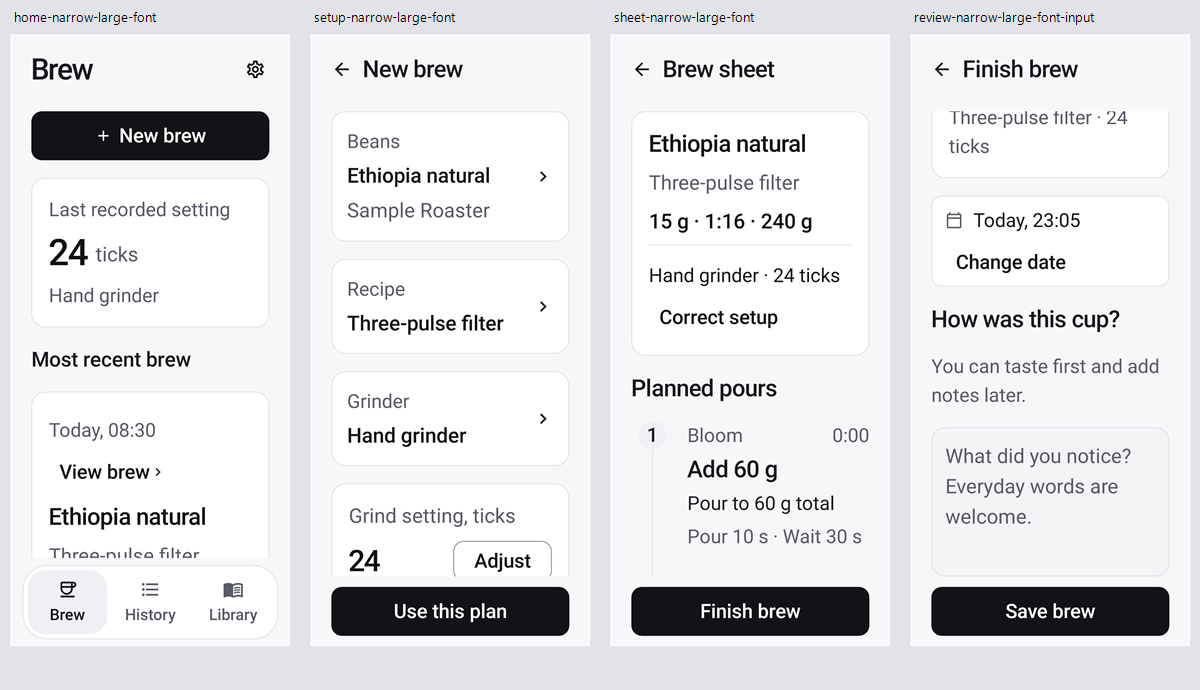
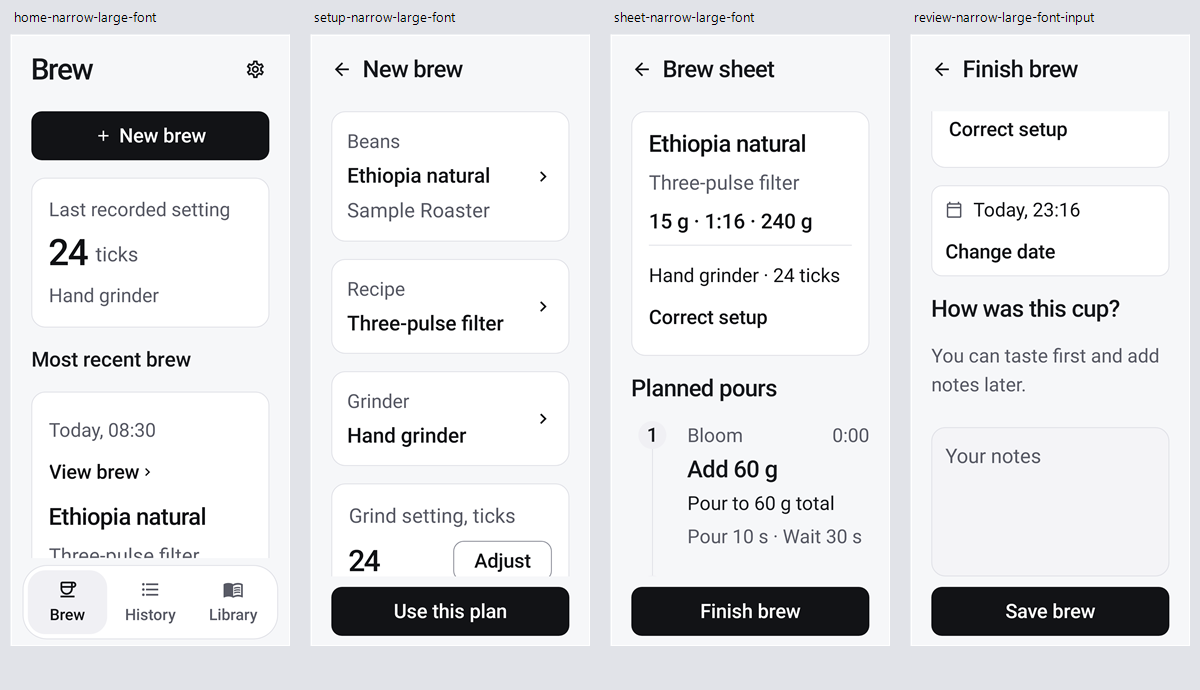
ui: tighten finish summary and native field labels

diff --git a/app/src/main/java/com/brewprint/ui/BrewprintApp.kt b/app/src/main/java/com/brewprint/ui/BrewprintApp.kt
@@ -103,7 +103,7 @@ private fun BrewHome(state: AppState, onNew: () -> Unit, onResume: () -> Unit, o
                     Box(Modifier.heightIn(min = 48.dp), contentAlignment = Alignment.CenterStart) {
                         Text(dateTime(recent.startedAt), style = MaterialTheme.typography.bodyMedium, color = MaterialTheme.colorScheme.onSurfaceVariant)
                     }
-                    TextButton(onClick = { onRecord(recent.id) }) { Text("View brew"); Icon(Icons.Outlined.ChevronRight, null, Modifier.size(18.dp)) }
+                    TextButton(onClick = { onRecord(recent.id) }, contentPadding = PaddingValues(vertical = 8.dp)) { Text("View brew"); Icon(Icons.Outlined.ChevronRight, null, Modifier.size(18.dp)) }
                 }
                 Text(recent.beans.name, style = MaterialTheme.typography.titleLarge)
                 Text(recent.recipe.name, color = MaterialTheme.colorScheme.onSurfaceVariant)
@@ -197,13 +197,13 @@ private fun DraftFlow(initial: BrewDraft, state: AppState, repository: BrewRepos
             }
             DraftStage.REVIEW -> {
                 Panel {
-                    FlowRow(Modifier.fillMaxWidth(), horizontalArrangement = Arrangement.SpaceBetween) {
-                        Box(Modifier.heightIn(min = 48.dp), contentAlignment = Alignment.CenterStart) {
+                    FlowRow(Modifier.fillMaxWidth(), horizontalArrangement = Arrangement.SpaceBetween, verticalArrangement = Arrangement.spacedBy(8.dp)) {
+                        Column(Modifier.align(Alignment.CenterVertically), verticalArrangement = Arrangement.spacedBy(4.dp)) {
                             Text(draft.beans!!.name, style = MaterialTheme.typography.titleMedium)
+                            Text("${draft.recipe!!.name} · ${draft.setting} ticks", color = MaterialTheme.colorScheme.onSurfaceVariant, style = MaterialTheme.typography.bodyMedium)
                         }
-                        TextButton(onClick = { change(draft.copy(stage = DraftStage.SETUP)) }) { Text("Correct setup") }
+                        TextButton(onClick = { change(draft.copy(stage = DraftStage.SETUP)) }, modifier = Modifier.align(Alignment.CenterVertically), contentPadding = PaddingValues(vertical = 8.dp)) { Text("Correct setup") }
                     }
-                    Text("${draft.recipe!!.name} · ${draft.setting} ticks", color = MaterialTheme.colorScheme.onSurfaceVariant, style = MaterialTheme.typography.bodyMedium)
                 }
                 DateEntry(dateText, { dateText = it }, { validDate = it }) { change(draft.copy(startedAt = it)) }
                 JournalEditor(draft.journal, draft.beans!!.expectedNotes) { change(draft.copy(journal = it)) }
@@ -286,7 +286,7 @@ private fun PlanSummary(beans: Beans, grinder: Grinder, setting: Int, recipe: Re
             Box(Modifier.heightIn(min = 48.dp), contentAlignment = Alignment.CenterStart) {
                 Text("${grinder.name} · $setting ticks", style = MaterialTheme.typography.bodyMedium)
             }
-            if (onCorrect != null) TextButton(onClick = onCorrect) { Text("Correct setup") }
+            if (onCorrect != null) TextButton(onClick = onCorrect, contentPadding = PaddingValues(vertical = 8.dp)) { Text("Correct setup") }
         }
     }
 }
@@ -345,7 +345,7 @@ private fun DateEntry(text: String, onTextChange: (String) -> Unit, onValidity: 
                 Icon(Icons.Outlined.CalendarToday, null, Modifier.size(20.dp), tint = MaterialTheme.colorScheme.onSurfaceVariant)
                 Text(dateTime(parsed), style = MaterialTheme.typography.bodyMedium)
             }
-            TextButton(onClick = { editing = true }) { Text("Change date") }
+            TextButton(onClick = { editing = true }, contentPadding = PaddingValues(vertical = 8.dp)) { Text("Change date") }
         }
     }
 }

diff --git a/app/src/main/java/com/brewprint/ui/JournalEditor.kt b/app/src/main/java/com/brewprint/ui/JournalEditor.kt
@@ -5,8 +5,6 @@ import androidx.compose.material3.*
 import androidx.compose.runtime.*
 import androidx.compose.runtime.saveable.rememberSaveable
 import androidx.compose.ui.Modifier
-import androidx.compose.ui.semantics.contentDescription
-import androidx.compose.ui.semantics.semantics
 import androidx.compose.ui.unit.dp
 import com.brewprint.data.Journal
 
@@ -17,7 +15,7 @@ fun JournalEditor(journal: Journal, expectedNotes: String, onChange: (Journal) -
     var roaster by rememberSaveable { mutableStateOf(false) }
     Text("How was this cup?", style = MaterialTheme.typography.titleLarge)
     Text("You can taste first and add notes later.", style = MaterialTheme.typography.bodyMedium, color = MaterialTheme.colorScheme.onSurfaceVariant)
-    OutlinedTextField(journal.impression, { onChange(journal.copy(impression = it)) }, Modifier.fillMaxWidth().semantics { contentDescription = "Cup observations" }, placeholder = { Text("What did you notice? Everyday words are welcome.") }, minLines = 4, shape = MaterialTheme.shapes.medium, colors = softFieldColors())
+    OutlinedTextField(journal.impression, { onChange(journal.copy(impression = it)) }, Modifier.fillMaxWidth(), label = { Text("Your notes") }, placeholder = { Text("What did you notice? Everyday words are welcome.") }, minLines = 4, shape = MaterialTheme.shapes.medium, colors = softFieldColors())
     DisclosureRow(if (explore) "Hide taste exploration" else "Explore the taste", explore) { explore = !explore }
     if (explore) {
         JournalText("Aroma", "What do you smell? Try floral, toasted nuts, or fruit.", journal.aroma) { onChange(journal.copy(aroma = it)) }
@@ -39,7 +37,7 @@ fun JournalEditor(journal: Journal, expectedNotes: String, onChange: (Journal) -
         Choice(listOf("Short", "Medium", "Long"), journal.finishLength) { onChange(journal.copy(finishLength = it)) }
     }
     Text("Next time", style = MaterialTheme.typography.titleMedium)
-    OutlinedTextField(journal.nextTime, { onChange(journal.copy(nextTime = it)) }, Modifier.fillMaxWidth().semantics { contentDescription = "Next time" }, placeholder = { Text("A reminder for your next brew.") }, minLines = 2, shape = MaterialTheme.shapes.medium, colors = softFieldColors())
+    OutlinedTextField(journal.nextTime, { onChange(journal.copy(nextTime = it)) }, Modifier.fillMaxWidth(), label = { Text("Reminder") }, placeholder = { Text("Try one tick finer") }, minLines = 2, shape = MaterialTheme.shapes.medium, colors = softFieldColors())
     DisclosureRow("As it cools", cooling) { cooling = !cooling }
     if (cooling) JournalText("As it cools", "Did anything change as you kept drinking?", journal.asItCools) { onChange(journal.copy(asItCools = it)) }
     DisclosureRow("View roaster's notes", roaster) { roaster = !roaster }

diff --git a/app/src/main/java/com/brewprint/ui/RecipeEditor.kt b/app/src/main/java/com/brewprint/ui/RecipeEditor.kt
@@ -26,7 +26,6 @@ import androidx.compose.ui.layout.onGloballyPositioned
 import androidx.compose.ui.platform.LocalDensity
 import androidx.compose.ui.platform.LocalView
 import androidx.compose.ui.semantics.contentDescription
-import androidx.compose.ui.semantics.disabled
 import androidx.compose.ui.semantics.semantics
 import androidx.compose.ui.text.input.KeyboardType
 import androidx.compose.ui.unit.dp
@@ -170,17 +169,14 @@ fun RecipeEditor(initial: Recipe?, onSave: (Recipe) -> Boolean, onBack: () -> Un
                                         Box(Modifier.size(48.dp).onGloballyPositioned { gripCoordinates = it }
                                             .semantics {
                                                 contentDescription = "Drag pulse ${index + 1} to reorder"
-                                                if (pulses.size == 1) disabled()
                                             }
                                             .pointerInput(pulse.id) {
                                                 detectDragGestures(
                                                     onDragStart = { position ->
-                                                        if (pulses.size > 1) {
-                                                            dragPointerY = gripCoordinates!!.localToWindow(position).y
-                                                            dragGrabOffset = dragPointerY - pulseBounds.getValue(pulse.id).top
-                                                            reorderPending = false
-                                                            draggedPulseId = pulse.id
-                                                        }
+                                                        dragPointerY = gripCoordinates!!.localToWindow(position).y
+                                                        dragGrabOffset = dragPointerY - pulseBounds.getValue(pulse.id).top
+                                                        reorderPending = false
+                                                        draggedPulseId = pulse.id
                                                     },
                                                     onDrag = { change, _ ->
                                                         if (draggedPulseId == pulse.id) {

diff --git a/app/src/test/java/com/brewprint/ui/UiRefreshTest.kt b/app/src/test/java/com/brewprint/ui/UiRefreshTest.kt
@@ -85,12 +85,20 @@ class UiRefreshTest {
     @Test fun `tasting notes keep a named input and visible save action during exploration`() {
         seedSavedBrew()
         tap("Add tasting notes")
-        val observations = compose.onNodeWithContentDescription("Cup observations")
+        val observations = field("Your notes")
         observations.performTextInput("Sweet and silky")
+        observations.assertTextContains("Sweet and silky")
+        observations.assert(SemanticsMatcher.keyNotDefined(SemanticsProperties.ContentDescription))
+        field("Reminder").performScrollTo().performTextInput("Repeat at 24 ticks")
+        field("Reminder").assertTextContains("Repeat at 24 ticks")
+        field("Reminder").assert(SemanticsMatcher.keyNotDefined(SemanticsProperties.ContentDescription))
         tap("Explore the taste")
         observations.assertHasClickAction()
         compose.onNodeWithText("Save notes").assertIsDisplayed().performClick()
-        compose.runOnIdle { assertEquals("Sweet and silky", repository.state.value.brews.single().journal.impression) }
+        compose.runOnIdle {
+            assertEquals("Sweet and silky", repository.state.value.brews.single().journal.impression)
+            assertEquals("Repeat at 24 ticks", repository.state.value.brews.single().journal.nextTime)
+        }
     }
 
     @Test fun `new beans stays neutral until blur and valid fields enable saving`() {

diff --git a/app/src/main/java/com/brewprint/ui/GrinderDial.kt b/app/src/main/java/com/brewprint/ui/GrinderDial.kt
@@ -172,7 +172,7 @@ private fun GrinderWheel(value: Int?, finish: DialFinish, onTick: (Int) -> Boole
 
 private fun DrawScope.drawGrinderWheel(value: Int, finish: DialFinish, pointer: Color) {
     val center = Offset(size.width - 2.dp.toPx(), size.height / 2)
-    val radius = min(size.width * .9f, size.height * .455f)
+    val radius = min(size.width * .9f, size.height / 2 - 18.dp.toPx())
     val matte = finish == DialFinish.MATTE
     val glass = finish == DialFinish.GLASS
     for (layer in 8 downTo 1) {

diff --git a/app/src/test/java/com/brewprint/ui/UiScreenshotTest.kt b/app/src/test/java/com/brewprint/ui/UiScreenshotTest.kt
@@ -114,7 +114,7 @@ class UiScreenshotTest {
         compose.onNodeWithText("Finish brew").assertIsDisplayed().performClick()
         capture("review-narrow-large-font")
         compose.onNodeWithText("Save brew").assertIsDisplayed()
-        compose.onNodeWithContentDescription("Cup observations").performScrollTo().assertIsDisplayed()
+        compose.onNode(hasText("Your notes") and hasSetTextAction()).performScrollTo().assertIsDisplayed()
         capture("review-narrow-large-font-input")
     }
 

diff --git a/app/src/test/java/com/brewprint/ui/BrewJourneyTest.kt b/app/src/test/java/com/brewprint/ui/BrewJourneyTest.kt
@@ -85,7 +85,7 @@ class BrewJourneyTest {
         tap("Use this plan")
         compose.onNodeWithText("Pour to 240 g total").assertExists()
         tap("Finish brew")
-        enter("What did you notice? Everyday words are welcome.", "Cocoa, lighter than expected")
+        enter("Your notes", "Cocoa, lighter than expected")
         tap("Save brew")
         compose.onNodeWithText("Brew record").assertExists()
         compose.runOnIdle {
